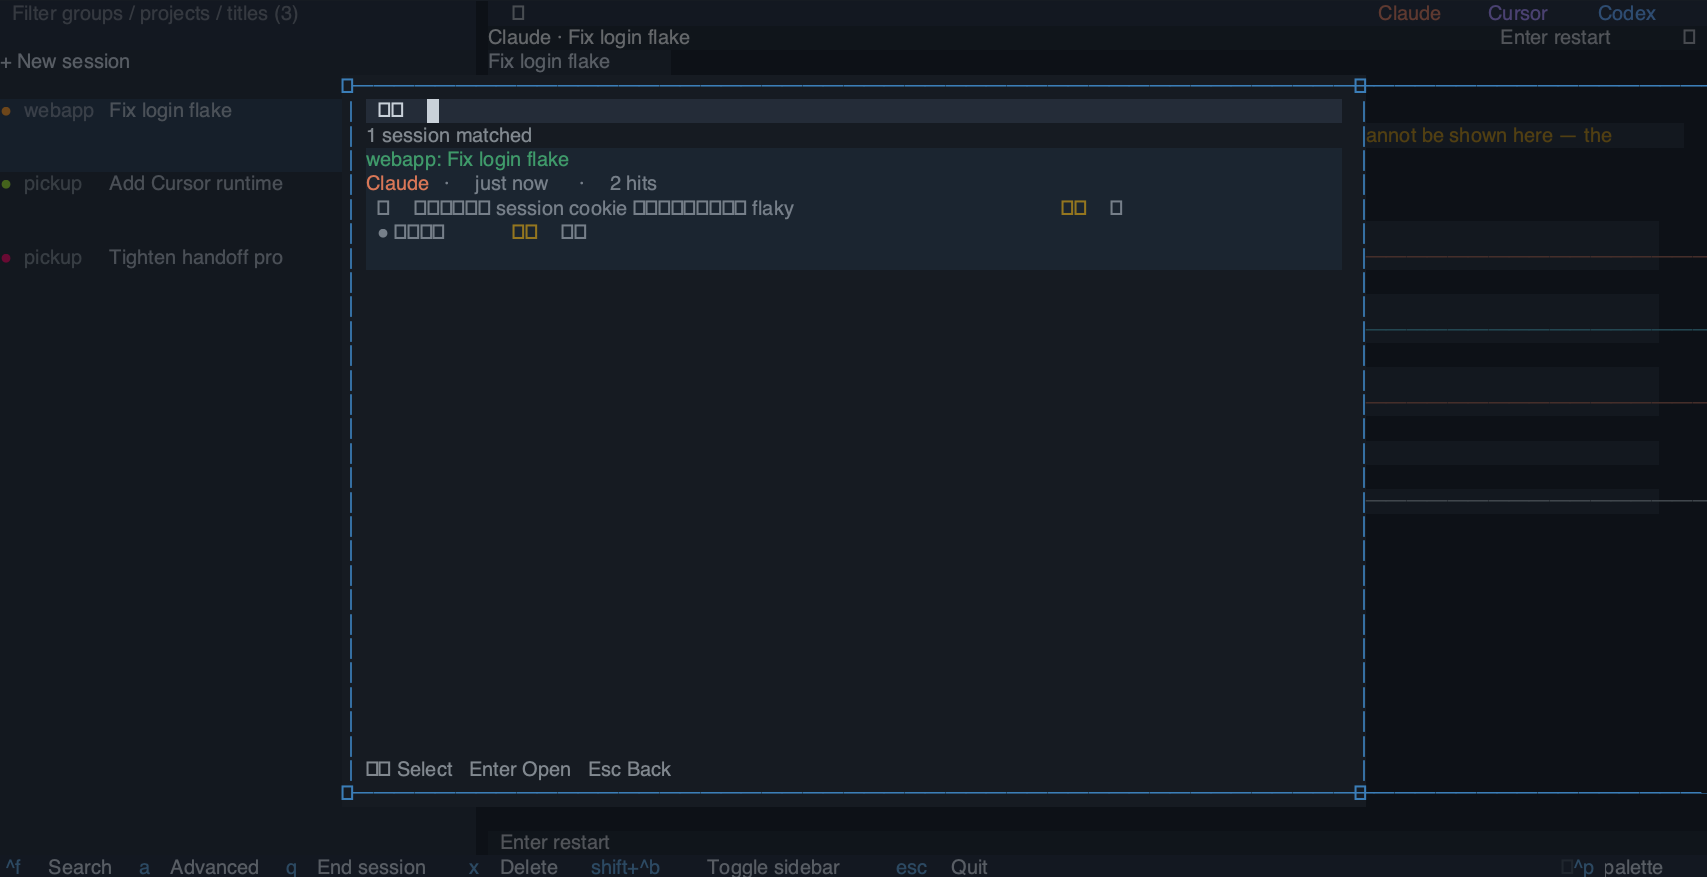
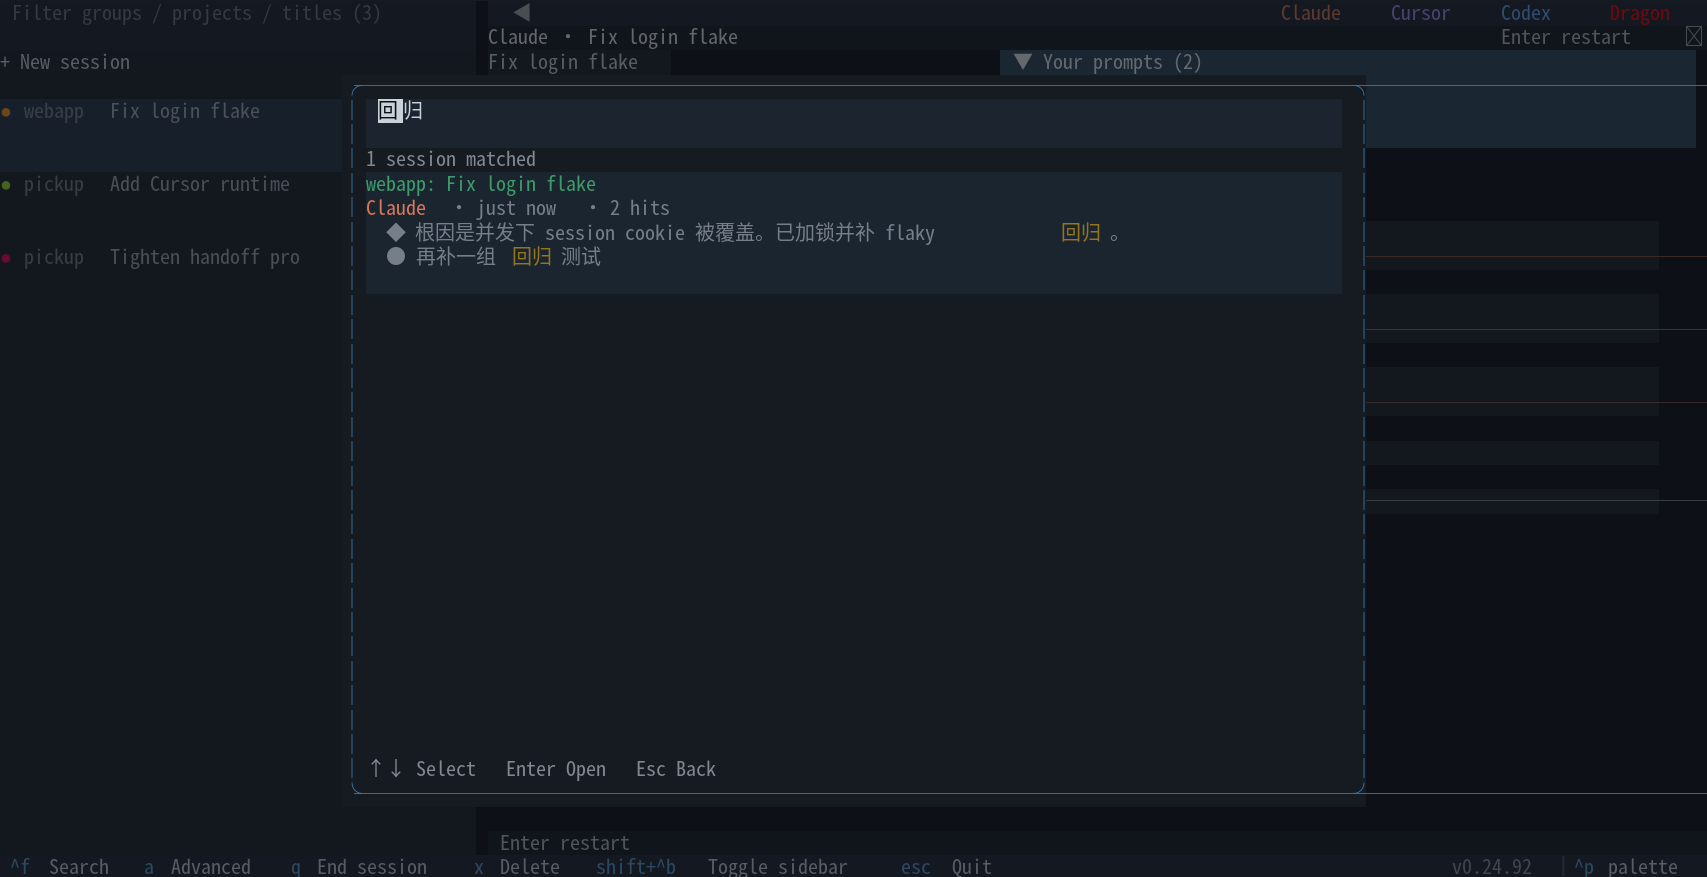
release: v0.24.93 Ctrl+F 搜索框改为两行 TextArea
长查询可软换行显示；Enter/方向键用 priority Binding，避免被 TextArea 吃掉。

diff --git a/src/pickup/ui/search_modal.py b/src/pickup/ui/search_modal.py
@@ -4,9 +4,9 @@
 工具；本弹窗负责「我记得在某个会话里聊过某件事，但想不起是哪个项目」，是一次性
 的检索动作，选中后跳回主列表定位到那个会话。
 
-交互上刻意让输入框始终持有焦点：↑↓ / PageUp / PageDown 会被转发给结果列表，
-Enter 直接打开当前高亮项。用户从头到尾只跟一个输入框打交道，不需要在输入框和
-列表之间来回切焦点。
+交互上刻意让输入框始终持有焦点：查询框是两行软换行的 TextArea，↑↓ /
+PageUp / PageDown 会被转发给结果列表，Enter 直接打开当前高亮项（不会在框里换
+行）。用户从头到尾只跟一个输入框打交道，不需要在输入框和列表之间来回切焦点。
 """
 
 from __future__ import annotations
@@ -15,12 +15,13 @@ import asyncio
 import os
 
 from rich.text import Text
-from textual import events, work
+from textual import work
 from textual.app import ComposeResult
+from textual.binding import Binding
 from textual.containers import Vertical
 from textual.screen import ModalScreen
 from textual.widget import Widget
-from textual.widgets import Input, ListView, Static
+from textual.widgets import ListView, Static, TextArea
 
 from pickup.i18n import t
 from pickup.search import DEFAULT_MAX_LINES, MatchLine, SessionMatch, split_keywords
@@ -140,6 +141,17 @@ class SearchResultRow(Widget):
 class FullTextSearchModal(OutsideClickDismiss, ModalScreen[str | None]):
     """返回选中的会话键；Esc 或点框外空白返回 None。"""
 
+    # Enter / ↑↓ 必须 priority：否则两行 TextArea 会先吃掉这些键（换行、移光标），
+    # 用户就无法在输入框持焦时直接打开结果或挪高亮。
+    BINDINGS = [
+        Binding("escape", "cancel", show=False, priority=True),
+        Binding("enter", "confirm", show=False, priority=True),
+        Binding("up", "results_up", show=False, priority=True),
+        Binding("down", "results_down", show=False, priority=True),
+        Binding("pageup", "results_page_up", show=False, priority=True),
+        Binding("pagedown", "results_page_down", show=False, priority=True),
+    ]
+
     DEFAULT_CSS = """
     FullTextSearchModal {
         align: center middle;
@@ -153,15 +165,19 @@ class FullTextSearchModal(OutsideClickDismiss, ModalScreen[str | None]):
         background: $surface;
         padding: 0 1;
     }
-    /* Textual 的 Input 自带 `border: tall $border`，且 :focus 还会换一套带伪类
-       的规则——只写 `FullTextSearchModal Input` 压不住聚焦态（伪类选择器权重更
-       高），弹窗顶部会出现「外框套内框」两层边。两个状态都显式清掉。 */
-    FullTextSearchModal Input,
-    FullTextSearchModal Input:focus {
+    /* Textual 的 TextArea 默认 tall 边框，且 :focus 权重更高——两个状态都清掉，
+       避免弹窗顶部「外框套内框」。compact 去掉边框类，这里再钉死高度与底色。 */
+    FullTextSearchModal TextArea,
+    FullTextSearchModal TextArea:focus {
         border: none;
         padding: 0 1;
         margin: 0;
-        height: 1;
+        height: 2;
+        background: $panel;
+        scrollbar-size-vertical: 0;
+        scrollbar-size-horizontal: 0;
+    }
+    FullTextSearchModal TextArea .text-area--cursor-line {
         background: $panel;
     }
     FullTextSearchModal #search-status {
@@ -198,17 +214,21 @@ class FullTextSearchModal(OutsideClickDismiss, ModalScreen[str | None]):
 
     def compose(self) -> ComposeResult:
         with Vertical():
-            yield Input(
-                value=self._initial_query,
-                placeholder=t("search.placeholder"),
+            yield TextArea(
+                self._initial_query,
                 id="search-query",
+                soft_wrap=True,
+                show_line_numbers=False,
+                compact=True,
+                highlight_cursor_line=False,
+                placeholder=t("search.placeholder"),
             )
             yield Static("", id="search-status")
             yield ListView(id="search-results")
             yield Static(t("search.hint"), classes="hint")
 
     def on_mount(self) -> None:
-        self.query_one("#search-query", Input).focus()
+        self.query_one("#search-query", TextArea).focus()
         # 索引已就绪就先用它立刻出结果（毫秒级），同时仍去后台补一次增量刷新：
         # 首屏预热之后新产生的会话和新追加的消息只有这样才搜得到。签名没变的会话
         # 直接复用，实测全命中时整轮只要 0.3ms，等于白捡。
@@ -254,15 +274,15 @@ class FullTextSearchModal(OutsideClickDismiss, ModalScreen[str | None]):
 
     # ---- 查询 ----
 
-    def on_input_changed(self, event: Input.Changed) -> None:
-        if event.input.id != "search-query":
+    def on_text_area_changed(self, event: TextArea.Changed) -> None:
+        if event.text_area.id != "search-query":
             return
         if self._debounce_timer is not None:
             self._debounce_timer.stop()
         self._debounce_timer = self.set_timer(_DEBOUNCE, self._run_search)
 
     def _query(self) -> str:
-        return self.query_one("#search-query", Input).value
+        return self.query_one("#search-query", TextArea).text
 
     def _run_search(self) -> None:
         self._debounce_timer = None
@@ -338,29 +358,30 @@ class FullTextSearchModal(OutsideClickDismiss, ModalScreen[str | None]):
         rows = item.query(SearchResultRow)
         return rows.first().match.key if rows else None
 
-    def _on_key(self, event: events.Key) -> None:
-        results = self.query_one("#search-results", ListView)
-        if event.key == "escape":
-            event.stop()
-            self.dismiss(None)
-        elif event.key == "enter":
-            event.stop()
-            key = self._selected_key()
-            if key is None:
-                self.app.bell()
-            else:
-                self.dismiss(key)
-        elif event.key in ("down", "up", "pagedown", "pageup"):
-            # 焦点始终留在输入框，方向键转发给结果列表，用户不用切焦点
-            event.stop()
-            event.prevent_default()
-            action = {
-                "down": results.action_cursor_down,
-                "up": results.action_cursor_up,
-                "pagedown": results.action_page_down,
-                "pageup": results.action_page_up,
-            }[event.key]
-            action()
+    def _results(self) -> ListView:
+        return self.query_one("#search-results", ListView)
+
+    def action_cancel(self) -> None:
+        self.dismiss(None)
+
+    def action_confirm(self) -> None:
+        key = self._selected_key()
+        if key is None:
+            self.app.bell()
+        else:
+            self.dismiss(key)
+
+    def action_results_up(self) -> None:
+        self._results().action_cursor_up()
+
+    def action_results_down(self) -> None:
+        self._results().action_cursor_down()
+
+    def action_results_page_up(self) -> None:
+        self._results().action_page_up()
+
+    def action_results_page_down(self) -> None:
+        self._results().action_page_down()
 
     def on_list_view_selected(self, event: ListView.Selected) -> None:
         """鼠标点选结果直接打开。"""

diff --git a/tests/test_ui.py b/tests/test_ui.py
@@ -44,7 +44,7 @@ _SIDEBAR_STATE_DB = os.path.join(_SIDEBAR_STATE_DIR, "sidebar-layout.sqlite3")
 from textual import events
 from textual.color import Color
 from textual.geometry import Offset, Size
-from textual.widgets import Footer, Input, Label, ListView
+from textual.widgets import Footer, Input, Label, ListView, TextArea
 
 import pickup
 from pickup import ui_prefs as _ui_prefs
@@ -6216,8 +6216,8 @@ class FullTextSearchModalTests(unittest.IsolatedAsyncioTestCase):
         return modal
 
     async def _type(self, pilot, modal, text: str) -> None:
-        modal.query_one("#search-query", Input).value = text
-        # 先 pause 一次让 Input.Changed 落地、把防抖定时器挂上，再等它跑完。
+        modal.query_one("#search-query", TextArea).load_text(text)
+        # 先 pause 一次让 TextArea.Changed 落地、把防抖定时器挂上，再等它跑完。
         # 少了这一步会在定时器还没建起来时就判定「已完成」，查询其实一次没跑。
         await pilot.pause()
         await _wait_until(lambda: modal._debounce_timer is None)
@@ -6326,7 +6326,7 @@ class FullTextSearchModalTests(unittest.IsolatedAsyncioTestCase):
         async with app.run_test(size=(100, 30)) as pilot:
             await pilot.pause(delay=0.2)
             modal = await self._open_search(pilot, app)
-            await pilot.click(modal.query_one("#search-query", Input))
+            await pilot.click(modal.query_one("#search-query", TextArea))
             await pilot.pause(delay=0.2)
             self.assertIsInstance(app.screen, FullTextSearchModal)
             await pilot.press("escape")
@@ -6339,7 +6339,7 @@ class FullTextSearchModalTests(unittest.IsolatedAsyncioTestCase):
             await pilot.pause(delay=0.2)
 
             modal = await self._open_search(pilot, app)
-            self.assertEqual(modal.query_one("#search-query", Input).value, "字幕")
+            self.assertEqual(modal.query_one("#search-query", TextArea).text, "字幕")
             await _wait_until(lambda: modal._debounce_timer is None)
             self.assertEqual([m.session["id"] for m in modal._matches], ["b"])
             await pilot.press("escape")
@@ -6362,7 +6362,7 @@ class FullTextSearchModalTests(unittest.IsolatedAsyncioTestCase):
             modal = await self._open_search(pilot, app)
             await self._type(pilot, modal, "/users/x")
             results = modal.query_one("#search-results", ListView)
-            query = modal.query_one("#search-query", Input)
+            query = modal.query_one("#search-query", TextArea)
             self.assertTrue(query.has_focus)
             self.assertEqual(results.index, 0)
 
@@ -6434,12 +6434,12 @@ class FullTextSearchModalTests(unittest.IsolatedAsyncioTestCase):
         async with app.run_test(size=(100, 30)) as pilot:
             await pilot.pause(delay=0.2)
             modal = await self._open_search(pilot, app)
-            query = modal.query_one("#search-query", Input)
+            query = modal.query_one("#search-query", TextArea)
             results = modal.query_one("#search-results", ListView)
 
             checked = 0
             for text in ("甲词", "乙词", "甲词 s1", "乙词", "甲词"):
-                query.value = text
+                query.load_text(text)
                 # 不等收敛：在重建正在进行的中间态上反复核对不变式
                 for _ in range(8):
                     await pilot.pause()

diff --git a/docs/screenshots/capture.py b/docs/screenshots/capture.py
@@ -501,7 +501,7 @@ async def _capture_search() -> None:
                     else:
                         raise RuntimeError("全文搜索弹窗没有就绪")
                     modal = app.screen
-                    modal.query_one("#search-query").value = "回归"
+                    modal.query_one("#search-query").load_text("回归")
                     await pilot.pause(delay=0.5)
                     if not modal._matches:
                         raise RuntimeError("演示查询没有命中，截图会是空列表")

diff --git a/src/pickup/__init__.py b/src/pickup/__init__.py
@@ -17,7 +17,7 @@ import sys as sys
 # 回归用例全挂正是这么来的。包顶层是唯一「任何用法都必经」的位置。
 os.environ.setdefault("TEXTUAL_DISABLE_KITTY_KEY", "1")
 
-__version__ = "0.24.92"
+__version__ = "0.24.93"
 
 _MODULE_EXPORTS = {
     "embed", "keepalive", "titles", "updater", "split_layout", "observe", "theme", "search",

diff --git a/docs/TERMINAL_UI_KNOWLEDGE_BASE.md b/docs/TERMINAL_UI_KNOWLEDGE_BASE.md
@@ -301,6 +301,7 @@ stateDiagram-v2
 - **AI 易错点**【弹窗每次打开都要增量刷索引】`FullTextSearchModal.on_mount` 不能写成「`ready` 就跳过刷新」：那样首屏预热之后新产生的会话、新追加的消息永远搜不到，pickup 开着不动几小时就明显不对。正确做法是就绪时先用现有索引立刻出结果，同时照样起一次后台增量刷新（签名全命中时只要 0.5～1.2 ms，等于白捡），刷完再重跑一次查询。
 - **AI 易错点**【"回车打开谁"必须取自高亮控件本身】`_selected_key()` 从 `ListView.highlighted_child` 里那个 `SearchResultRow` 拿会话键，**不要**改成「用 `ListView.index` 去索引 `self._matches`」。后者是两份可能不同步的数据：`ListView.clear()` 是投递 Prune 消息异步移除的，重建期间 DOM 里可能还留着上一批结果而 `_matches` 已经换新，同一个下标就指向两个不同会话，用户看到高亮在 A、回车却打开 B。结果列表重建同样要 `await clear()` / `await extend()` 并用 `_results_lock` + 序号让位串行（原因同 `SessionListView.rebuild()`：请求来自 Screen 泵的防抖定时器和 App 泵的建索引完成回调两条路）。回归：`test_highlighted_row_always_matches_what_enter_would_open`、`test_concurrent_rebuilds_do_not_stack_duplicate_rows`。
 - **AI 易错点**【命中行只对要展示的那几条提取】`ConversationIndex.search()` 先用 blob 判定命中并排序，再只对前 `top` 条调 `_collect_lines`。对全部命中会话都提取命中行会把界面线程卡住（461 个会话搜单字母 305 ms → 只算前 60 条后 35 ms）。`SearchOutcome.total` 保留命中总数，状态行必须如实说明还有多少条没显示。
+- **AI 易错点**【全文搜索查询框是两行 TextArea，不是 Input】`#search-query` 用 `height: 2` 的软换行 `TextArea`（`compact`、无行号），长查询能看见第二行。Enter / ↑↓ / PageUp / PageDown / Esc 必须挂 `priority=True` 的 Binding：否则 TextArea 会先吃掉 Enter（插入换行）和方向键（在框内移光标），破坏「输入框持焦、方向键挪结果、回车打开」的约定。边框仍要 `TextArea` 与 `TextArea:focus` 两处都清掉。回归：`FullTextSearchModalTests`。
 - **AI 易错点**【Ctrl+F 是主界面全局搜索】Ctrl+F 必须以高优先级在主界面的任何焦点位置打开全文搜索：侧边栏、静态预览和右栏实时会话都一样，运行中的助手不得截走这个键。临时弹窗不继承主界面绑定，继续保留各自输入和确认语义；不要为覆盖助手输入而改动 Ctrl+C、方向键、翻页等其余转发规则。回归：`test_ctrl_f_opens_search_when_a_live_pane_has_focus`。
 - **AI 易错点**【右栏刷新线程边界】Textual 后台 worker 不得直接读写 Widget/DOM；扫描、读取对话和托管启动等阻塞工作在后台进行，结果通过 `call_from_thread()` 回到主线程。退出时 worker 必须可取消，不能用不可打断的无限等待或长 `sleep`。
 - **AI 易错点**【列表刷新策略】会话键的成员与顺序不变时，`SessionListView.rebuild()` 必须原地替换卡片数据，只刷新有变化的卡片；仅新增、删除或重排才清空重建。后台重扫、标题轮询和交互动作可能在同一帧要求重建，并发执行 `clear()` / `extend()` 会重复挂载固定 ID 的「新建会话」条目，Textual 直接抛 `DuplicateIds` 打崩整个 TUI。**串行闸门必须在 `SessionListView.rebuild()` 内部（`_rebuild_lock`），不能只放在主屏**：调用方分布在两条互不相让的消息泵上——后台重扫经 `app.call_from_thread(_rebuild_list)` 跑在 App 泵，搜索框输入经 `on_input_changed` 直接调 `rebuild()` 跑在 Screen 泵，`MainScreen._rebuild_lock` 只挡得住同泵重入。真机崩溃（2026-07-26）：连续退格清空搜索词，命中数 50→57→71 连做全量重建（单次已到 2s 量级），与后台重扫交错必崩。同一把锁顺带做请求合并——排队期间来了更新的请求且本次不带 `select_key` 时直接让位，避免每个中间筛选态都全量重建一遍。标题生成中不在侧边栏画任何加载动画，标题只在缓存轮询命中变化时原地刷新。回归：`test_list_rebuild_serialized_across_message_pumps`、`test_screen_serializes_concurrent_list_rebuilds`。
@@ -375,7 +376,7 @@ python3 docs/screenshots/capture.py
 
 改动会话小窗时，`list.png` 已能覆盖**静态预览格**上的浮层；实时托管格仍须另跑一次带真实 tmux 的出图：把 `keepalive._BASE_ARGV` 指到一个临时 socket、在上面建一个会话、用 `SplitPaneArea.show_hosted_group()` 挂进右栏，再 `app.save_screenshot()` + 复用 `capture.py` 的 `_svg_to_png()`，深浅两种底色（`osc_report`）各出一张肉眼看。重点看：收起态是否恰好三行（条数 / 最初 / 最近）且贴在标题栏下一行、右侧留一列；上下顺序是否由旧到新；展开态的时间列与正文是否对齐、超过 6 条时"中间省略 N 条"是否画在最早那条的下面、末行“点击收起”是否在；`▶` / `▼` 是否被渲成豆腐块（换字形前先确认是出图字体问题还是产品问题——同块的 `◀` / `▶` 覆盖面最广，`▸` / `▾` 实测会缺字形）。
 
-检查 `docs/screenshots/search.png`（全文搜索弹窗）：输入框是**单行、无边框**（Textual 的 `Input:focus` 会自带一圈边，压不住就会出现「外框套内框」两层边）；状态行的英文单复数正确（`1 session matched` 而不是 `1 sessions matched`）；每条结果是「项目: 标题 / 运行时 · 时间 · N 处命中 / 命中行」，关键词按 `$warning` 高亮；Footer 出现 `^f Search`。**PNG 里中文命中行的关键词两侧会出现明显空隙，这是 Rich SVG → cairosvg 对「同一行里换了样式的 CJK 文本」算错字符前进宽度的导出伪影，不是产品回归**——判定方法是直接断言 `SearchResultRow.render().plain`，真实终端和 `.plain` 里都没有多余空格。
+检查 `docs/screenshots/search.png`（全文搜索弹窗）：输入框是**两行软换行、无边框**的 `TextArea`（Textual 的 `TextArea:focus` 会自带一圈边，压不住就会出现「外框套内框」两层边；Enter / ↑↓ 必须用 priority Binding，否则会被 TextArea 吃掉）；状态行的英文单复数正确（`1 session matched` 而不是 `1 sessions matched`）；每条结果是「项目: 标题 / 运行时 · 时间 · N 处命中 / 命中行」，关键词按 `$warning` 高亮；Footer 出现 `^f Search`。**PNG 里中文命中行的关键词两侧会出现明显空隙，这是 Rich SVG → cairosvg 对「同一行里换了样式的 CJK 文本」算错字符前进宽度的导出伪影，不是产品回归**——判定方法是直接断言 `SearchResultRow.render().plain`，真实终端和 `.plain` 里都没有多余空格。
 
 3. 真实终端冒烟：为避免标题生成消耗账号额度，在临时目录放置指向本机 `true` 的 `claude`、`codex`，并置于 `PATH` 最前，再运行：
 
